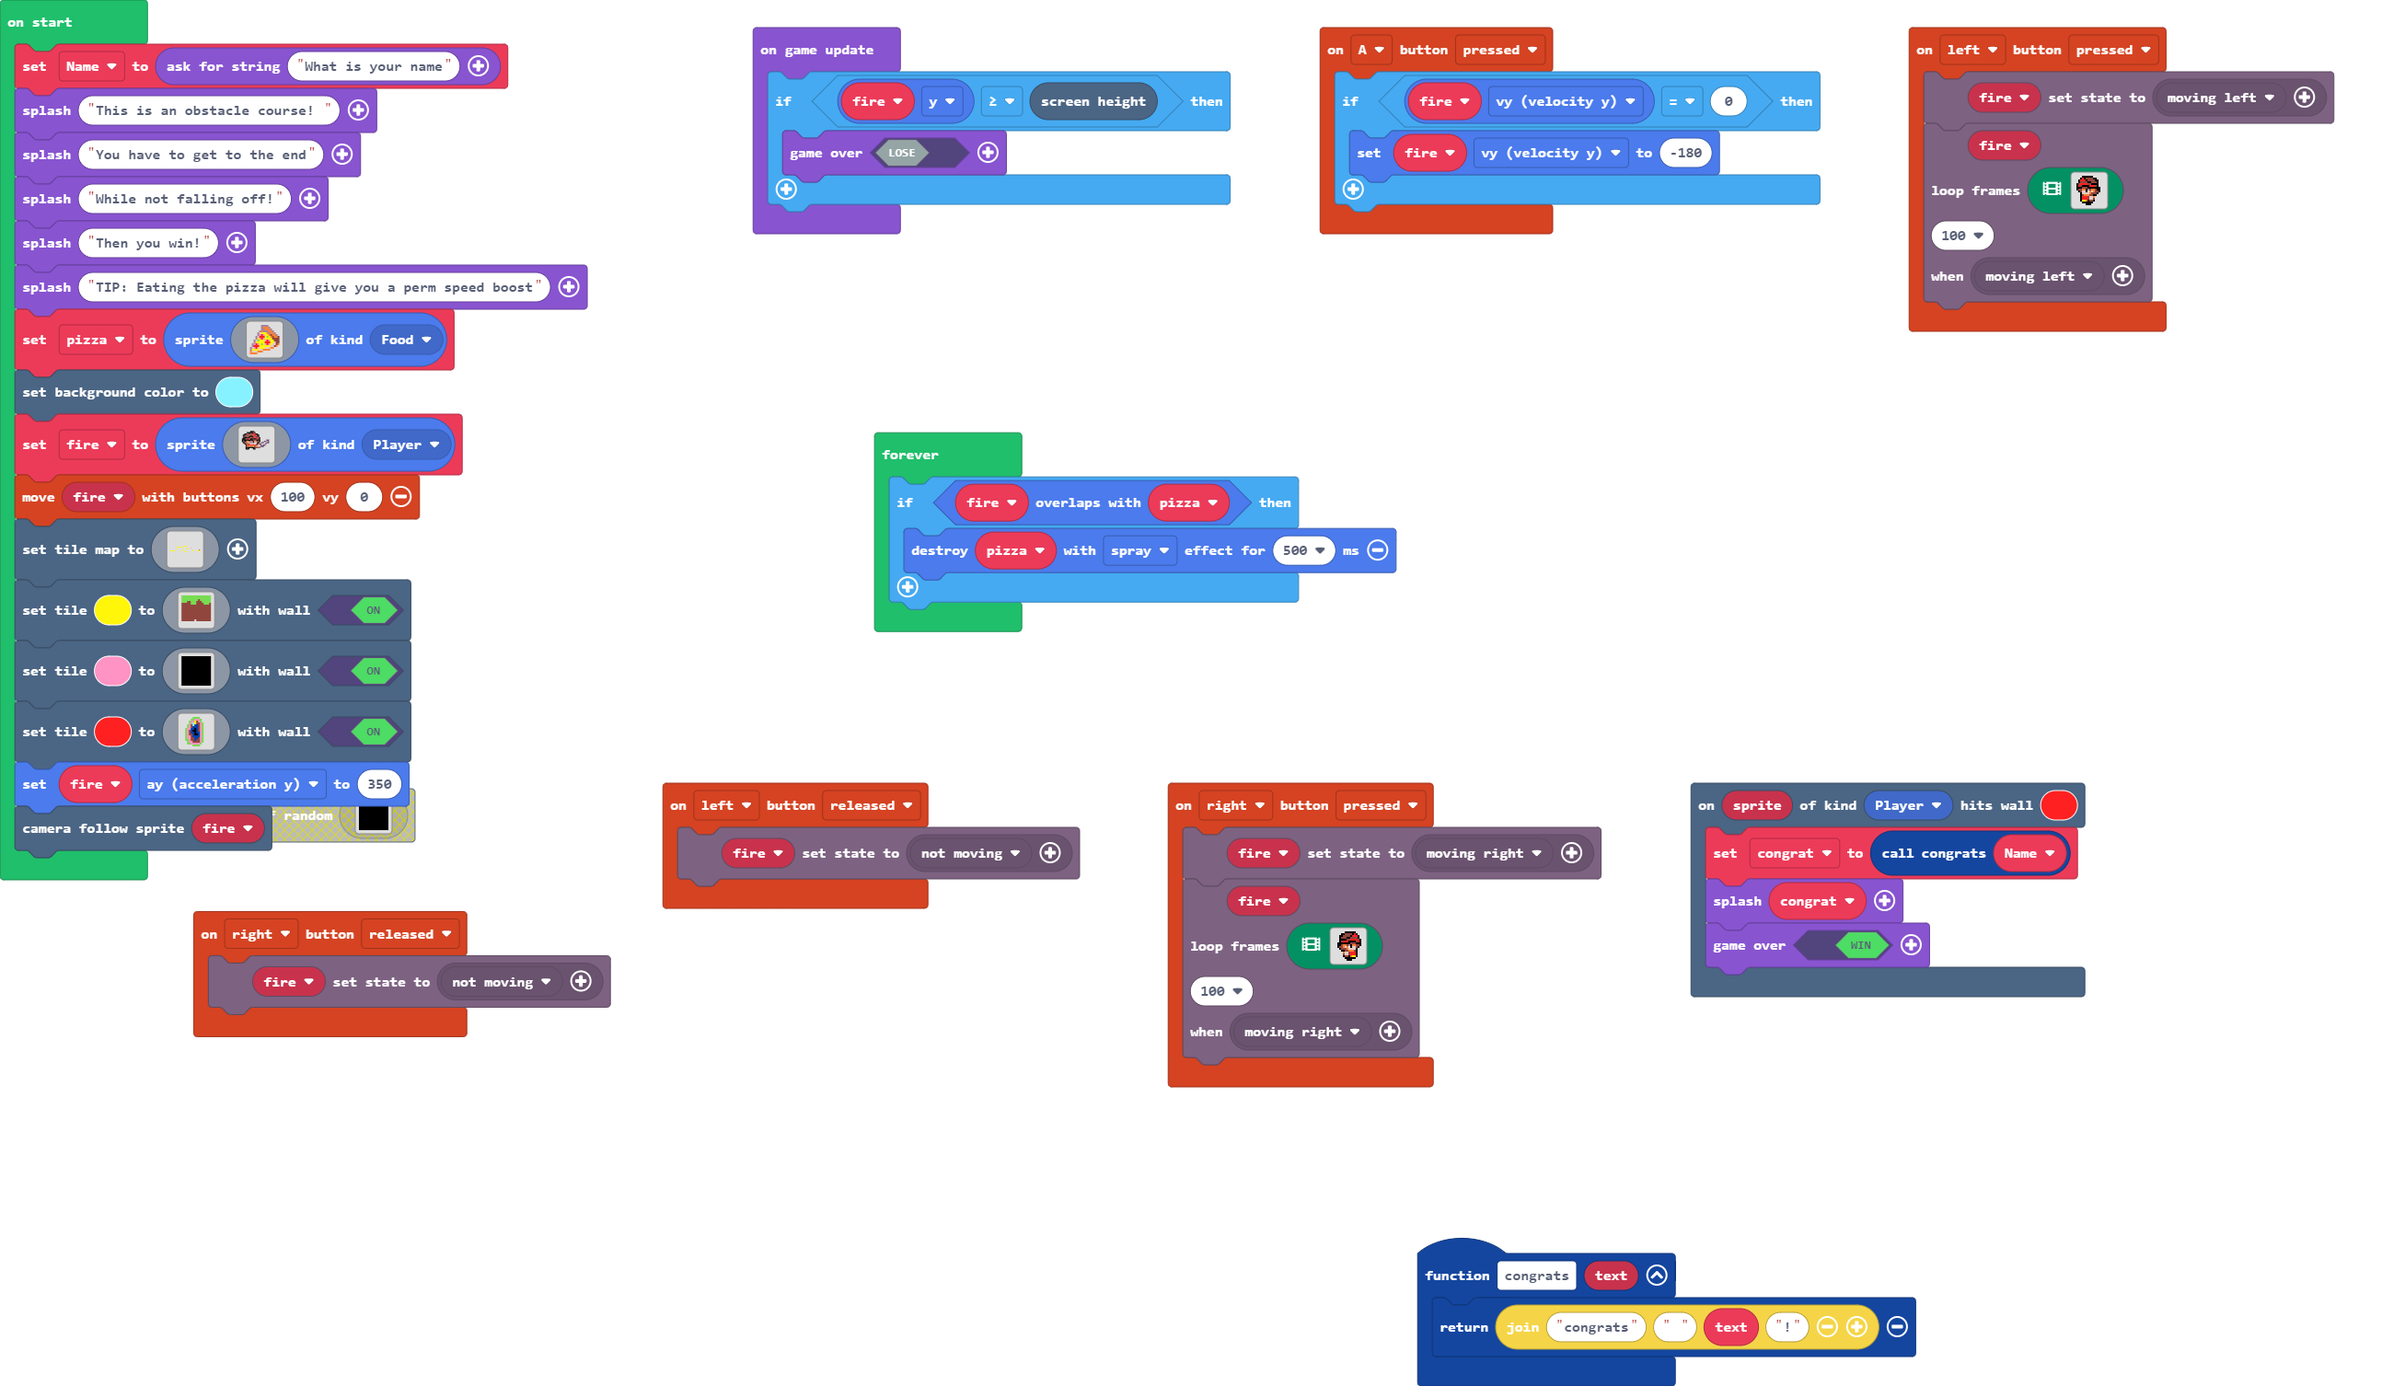
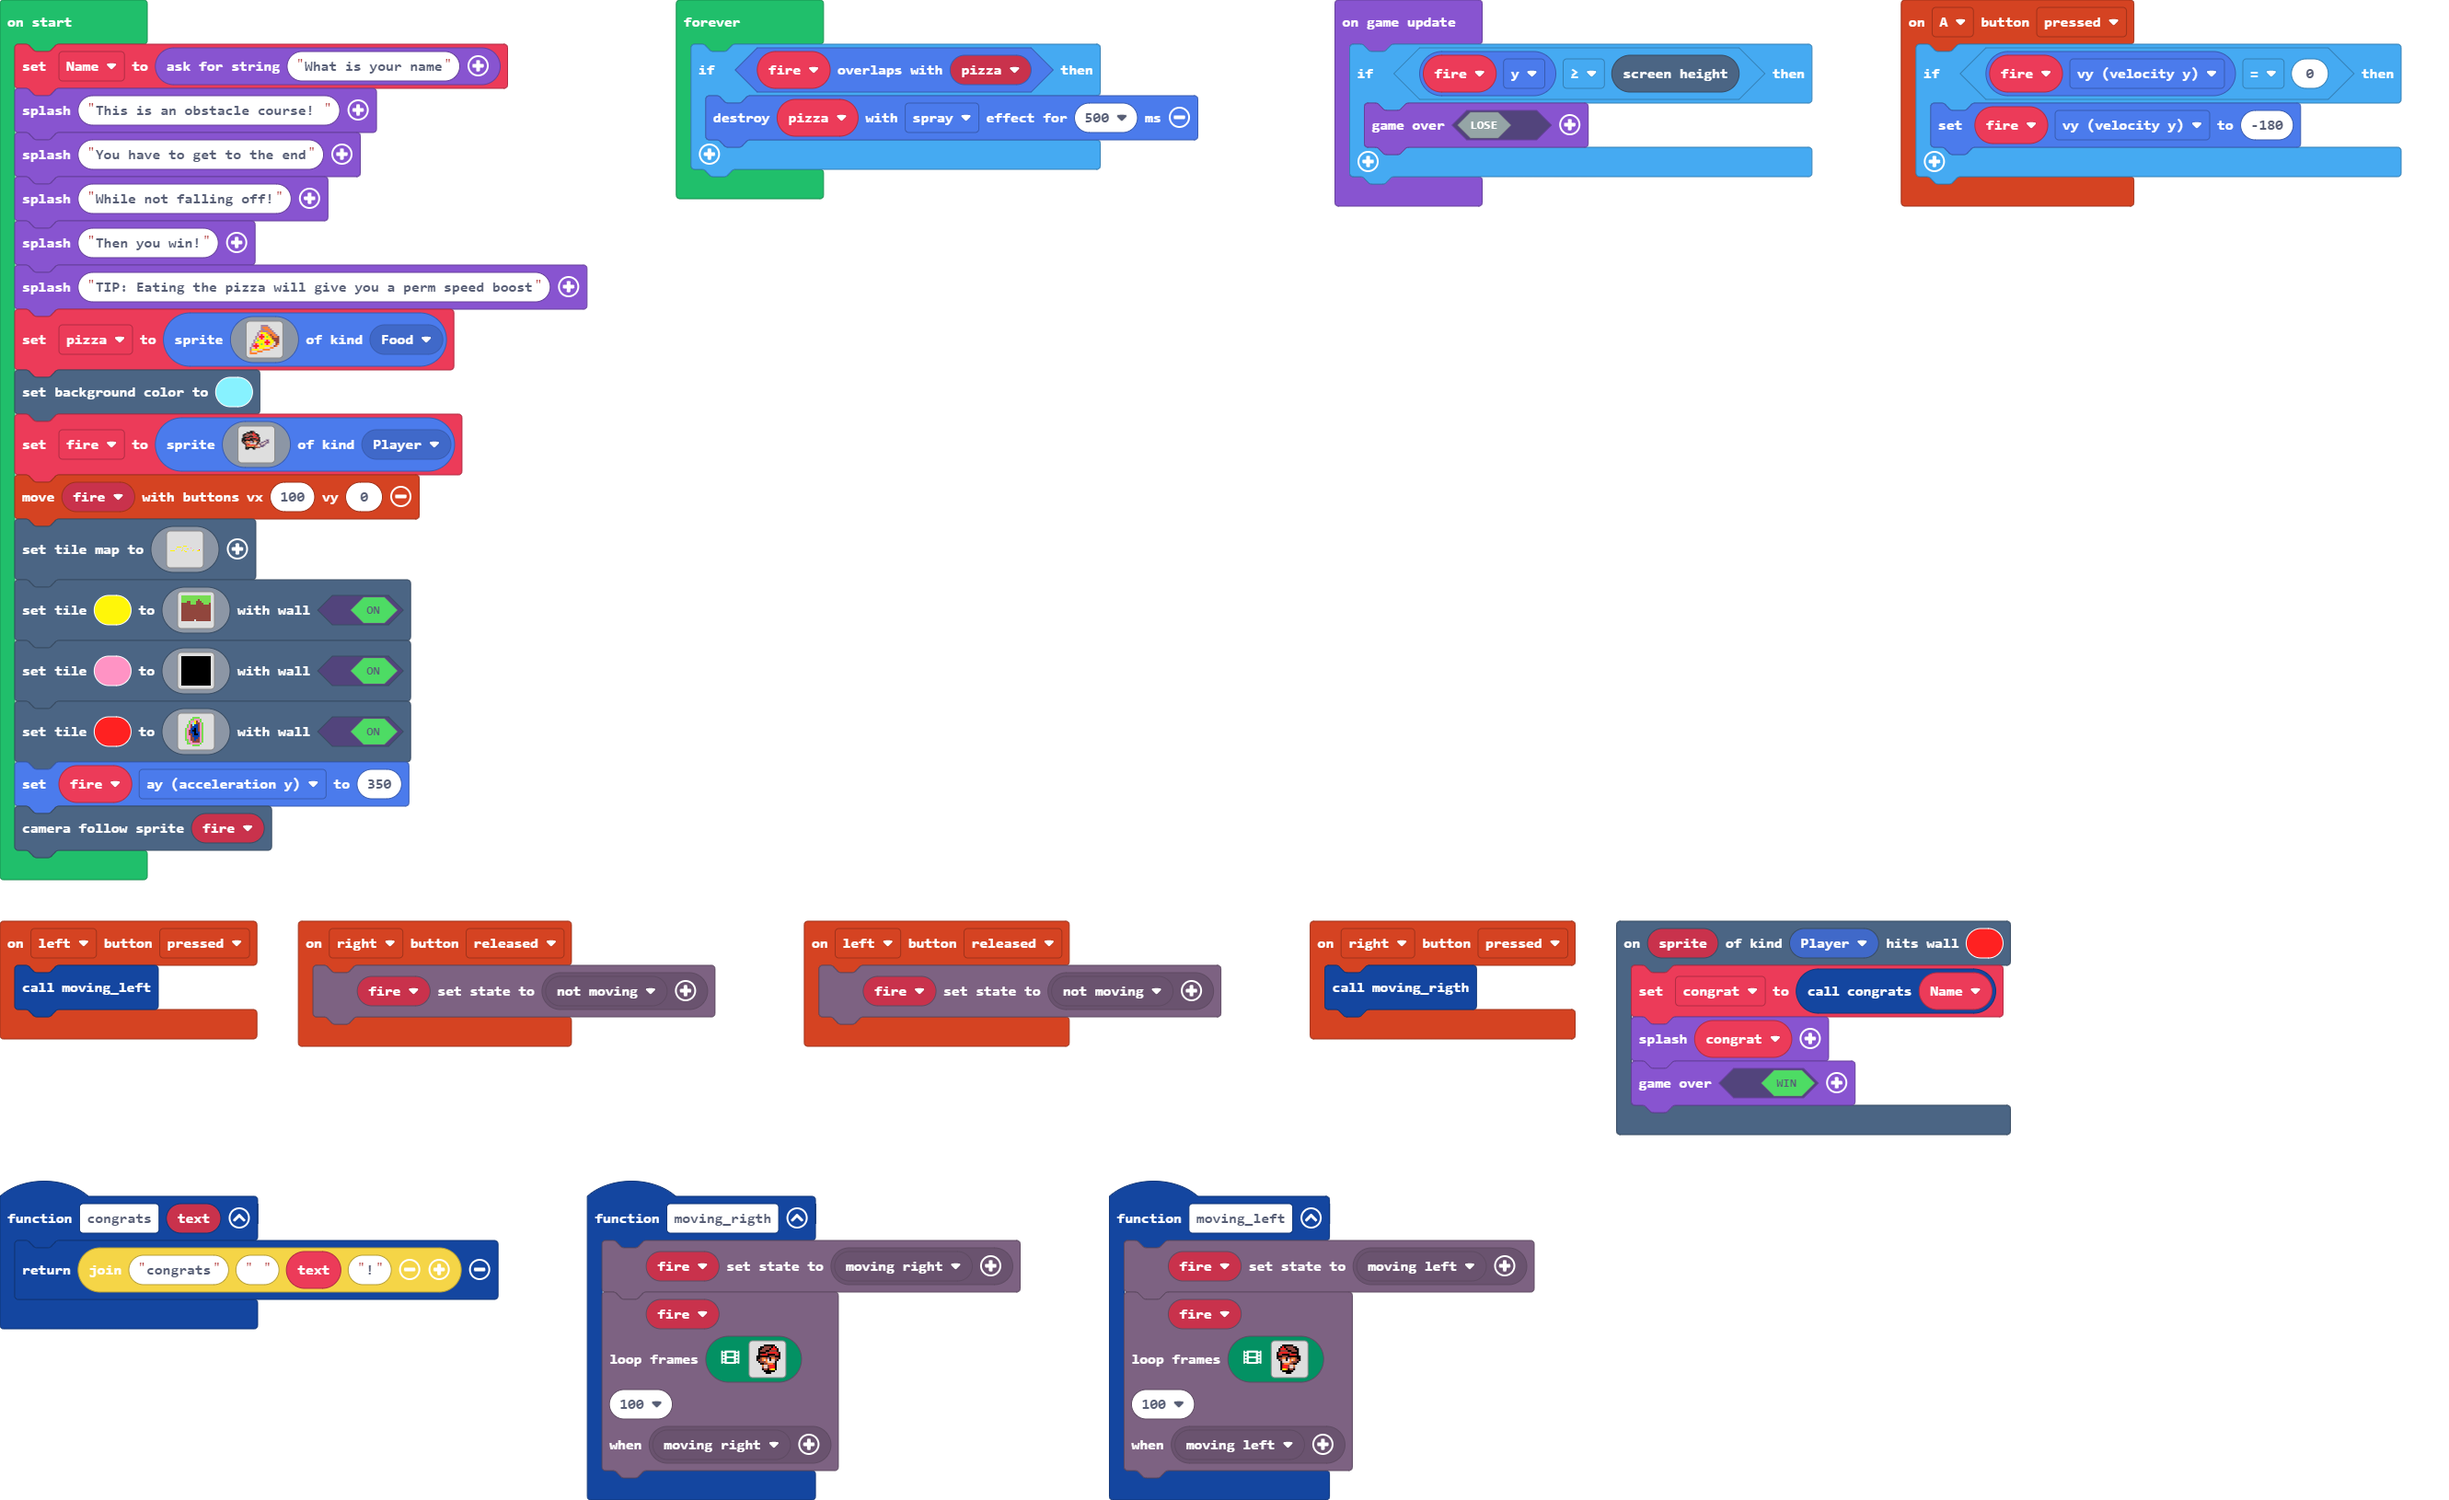
Update main.blocks, main.ts

diff --git a/main.ts b/main.ts
@@ -7,6 +7,18 @@ controller.A.onEvent(ControllerButtonEvent.Pressed, function () {
     }
 })
 controller.left.onEvent(ControllerButtonEvent.Pressed, function () {
+    moving_left()
+})
+controller.right.onEvent(ControllerButtonEvent.Released, function () {
+    characterAnimations.setCharacterState(fire, characterAnimations.rule(Predicate.NotMoving))
+})
+controller.left.onEvent(ControllerButtonEvent.Released, function () {
+    characterAnimations.setCharacterState(fire, characterAnimations.rule(Predicate.NotMoving))
+})
+controller.right.onEvent(ControllerButtonEvent.Pressed, function () {
+    moving_rigth()
+})
+function moving_left () {
     characterAnimations.setCharacterState(fire, characterAnimations.rule(Predicate.MovingLeft))
     characterAnimations.loopFrames(
     fire,
@@ -82,14 +94,8 @@ controller.left.onEvent(ControllerButtonEvent.Pressed, function () {
     100,
     characterAnimations.rule(Predicate.MovingLeft)
     )
-})
-controller.right.onEvent(ControllerButtonEvent.Released, function () {
-    characterAnimations.setCharacterState(fire, characterAnimations.rule(Predicate.NotMoving))
-})
-controller.left.onEvent(ControllerButtonEvent.Released, function () {
-    characterAnimations.setCharacterState(fire, characterAnimations.rule(Predicate.NotMoving))
-})
-controller.right.onEvent(ControllerButtonEvent.Pressed, function () {
+}
+function moving_rigth () {
     characterAnimations.setCharacterState(fire, characterAnimations.rule(Predicate.MovingRight))
     characterAnimations.loopFrames(
     fire,
@@ -165,7 +171,7 @@ controller.right.onEvent(ControllerButtonEvent.Pressed, function () {
     100,
     characterAnimations.rule(Predicate.MovingRight)
     )
-})
+}
 scene.onHitTile(SpriteKind.Player, 2, function (sprite) {
     congrat = congrats(Name)
     game.splash(congrat)
